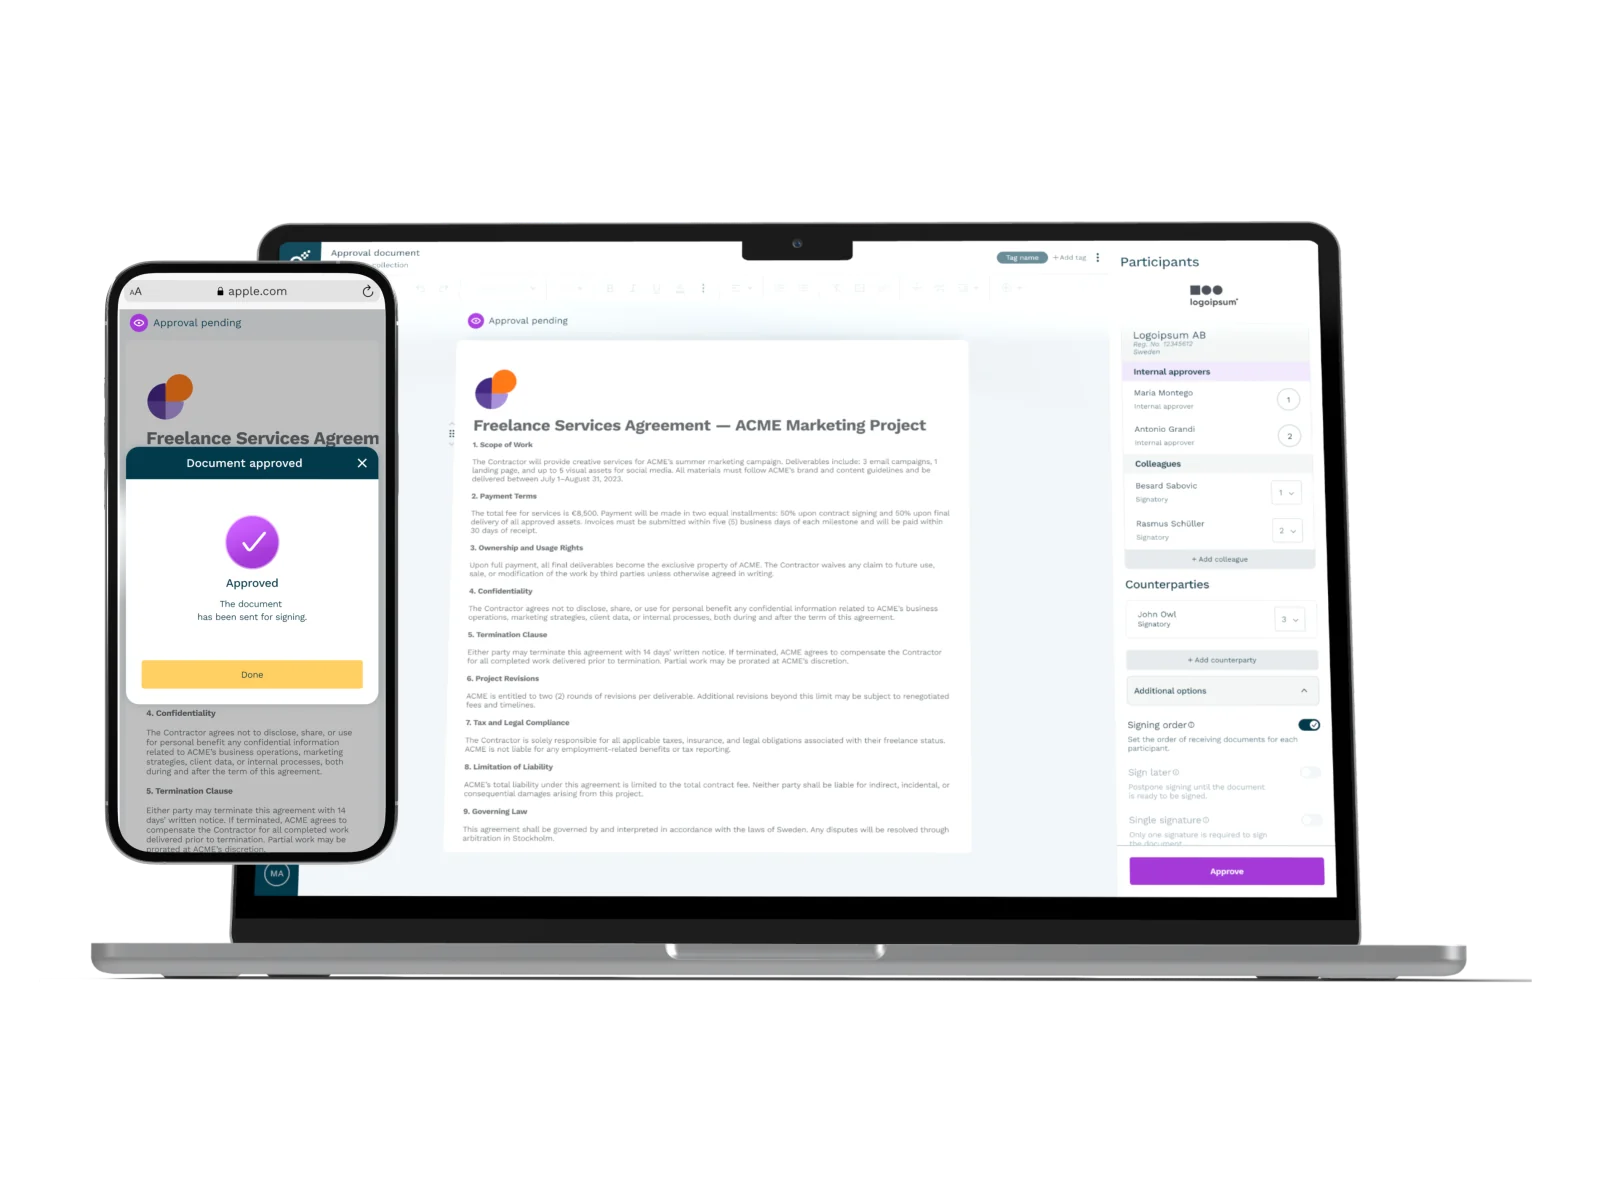
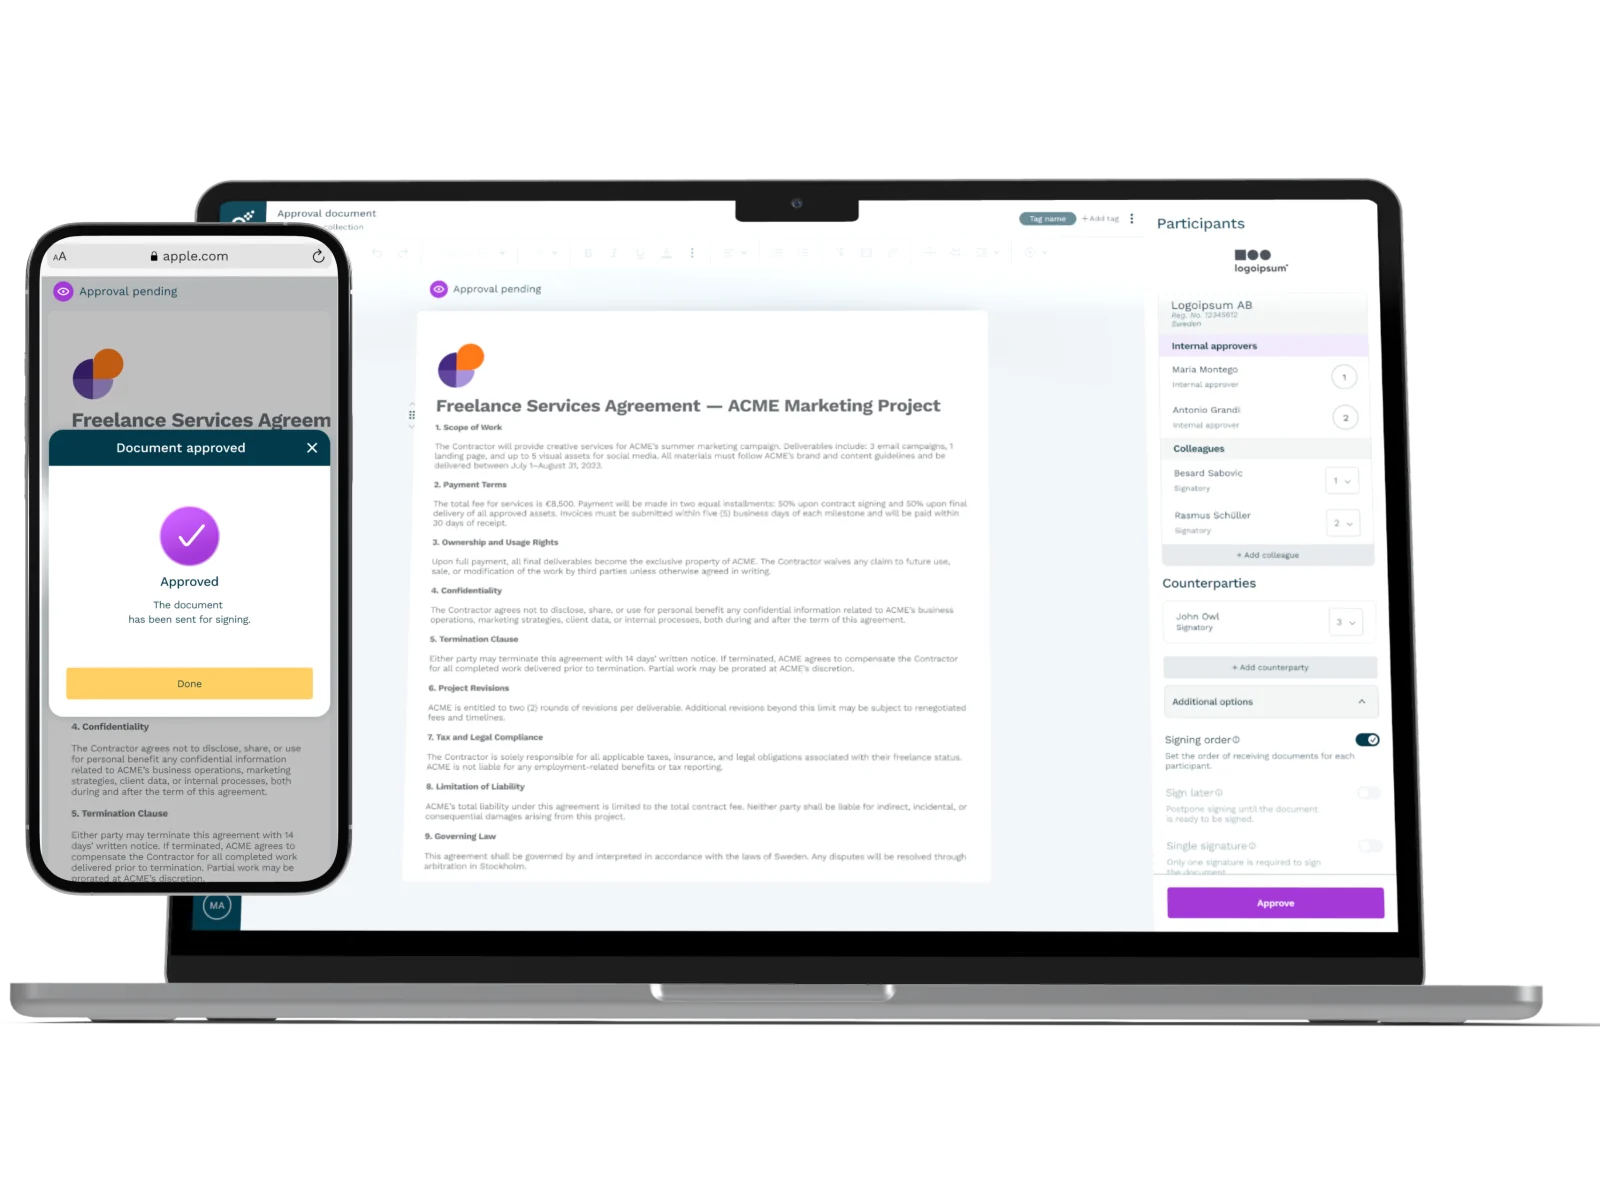
Approvals: tighter devices crop and a larger hero that bleeds past the column

Changed region(s): [[0.0, 0.1233, 1.0, 0.8633]]

diff --git a/case-approval-flows.html b/case-approval-flows.html
@@ -13,7 +13,7 @@
 <link rel="stylesheet" href="https://fonts.googleapis.com/css2?family=Work+Sans:ital,wght@0,400;0,500;1,400&display=block">
 <link rel="stylesheet" href="screens/screens.css?v=51">
 <script>try{var t=localStorage.getItem("theme");if(t==="dark"||t==="light")document.documentElement.setAttribute("data-theme",t)}catch(e){}</script>
-<link rel="stylesheet" href="styles.css?v=50">
+<link rel="stylesheet" href="styles.css?v=51">
 
 <a class="skip-link" href="#main">Skip to content</a>
 
@@ -65,7 +65,7 @@
         <p class="case-lede">Designed approval workflows that made contract lifecycles trackable, compliant, and fast to review.</p>
         <p class="case-shift-line"><span class="from">Approvals over email and Slack</span> <svg class="shift-arrow" width="22" height="12" viewBox="0 0 22 12" fill="none" stroke="currentColor" stroke-width="1.8" stroke-linecap="round" stroke-linejoin="round" aria-hidden="true"><path d="M1 6h19"/><path d="M15.5 1.5 20.5 6l-5 4.5"/></svg><span class="visually-hidden"> became </span> <span class="to">Approvals tracked in the contract</span></p>
       </div>
-      <div class="case-head-visual"><img style="view-transition-name: shot-approvals; view-transition-class: shot" fetchpriority="high" src="images/apr-devices-1600.webp" srcset="images/apr-devices-800.webp 800w, images/apr-devices-1200.webp 1200w, images/apr-devices-1600.webp 1600w, images/apr-devices-2400.webp 2400w, images/apr-devices-3800.webp 3800w" sizes="(max-width: 860px) 92vw, 560px" width="3800" height="2850" alt="Oneflow approval flow on a laptop and a phone: the approver view with signing order, and the Document approved confirmation"></div>
+      <div class="case-head-visual case-head-bleed"><img style="view-transition-name: shot-approvals; view-transition-class: shot" fetchpriority="high" src="images/apr-devices-1600.webp" srcset="images/apr-devices-800.webp 800w, images/apr-devices-1200.webp 1200w, images/apr-devices-1600.webp 1600w, images/apr-devices-2400.webp 2400w, images/apr-devices-3410.webp 3410w" sizes="(max-width: 860px) 92vw, 560px" width="3410" height="2558" alt="Oneflow approval flow on a laptop and a phone: the approver view with signing order, and the Document approved confirmation"></div>
       </div>
     <div class="wrap"><dl class="case-facts"><div><dt>Domain</dt><dd>Contract approval flow</dd></div><div><dt>Timeline</dt><dd>Q3 2023</dd></div><div><dt>Role</dt><dd>Lead designer</dd></div><div><dt>Team</dt><dd><span class="team-stack"><img src="images/avatar-olha.webp" width="128" height="128" alt=""><span class="team-more" aria-hidden="true">+4</span></span><span class="visually-hidden">Olha and 4 others</span></dd></div></dl></div>
     </div>

diff --git a/case-qes.html b/case-qes.html
@@ -13,7 +13,7 @@
 <link rel="stylesheet" href="https://fonts.googleapis.com/css2?family=Work+Sans:ital,wght@0,400;0,500;0,600;1,400&display=block">
 <link rel="stylesheet" href="screens/screens.css?v=51">
 <script>try{var t=localStorage.getItem("theme");if(t==="dark"||t==="light")document.documentElement.setAttribute("data-theme",t)}catch(e){}</script>
-<link rel="stylesheet" href="styles.css?v=50">
+<link rel="stylesheet" href="styles.css?v=51">
 
 <a class="skip-link" href="#main">Skip to content</a>
 
@@ -286,7 +286,7 @@
     <div class="more-grid">
       <a class="more-field" href="case-approval-flows.html">
         <div class="more-copy"><h3>Contract approval flows</h3><p><span class="stat-num">82%</span> early adopter CSAT</p></div>
-        <div class="more-visual"><img style="view-transition-name: shot-approvals; view-transition-class: shot" loading="lazy" src="images/apr-devices-1600.webp" srcset="images/apr-devices-800.webp 800w, images/apr-devices-1200.webp 1200w, images/apr-devices-1600.webp 1600w, images/apr-devices-2400.webp 2400w, images/apr-devices-3800.webp 3800w" sizes="(max-width: 760px) 90vw, 560px" width="3800" height="2850" alt="Oneflow approval flow on a laptop and a phone: the approver view with signing order, and the Document approved confirmation"></div>
+        <div class="more-visual"><img style="view-transition-name: shot-approvals; view-transition-class: shot" loading="lazy" src="images/apr-devices-1600.webp" srcset="images/apr-devices-800.webp 800w, images/apr-devices-1200.webp 1200w, images/apr-devices-1600.webp 1600w, images/apr-devices-2400.webp 2400w, images/apr-devices-3410.webp 3410w" sizes="(max-width: 760px) 90vw, 560px" width="3410" height="2558" alt="Oneflow approval flow on a laptop and a phone: the approver view with signing order, and the Document approved confirmation"></div>
       </a>
       <a class="more-field" href="case-suggestions.html">
         <div class="more-copy"><h3>Real-time contract collaboration</h3><p><span class="stat-num">35%</span> feature adoption</p></div>

diff --git a/case-suggestions.html b/case-suggestions.html
@@ -13,7 +13,7 @@
 <link rel="stylesheet" href="https://fonts.googleapis.com/css2?family=Work+Sans:ital,wght@0,400;0,500;0,600;1,400&display=block">
 <link rel="stylesheet" href="screens/screens.css?v=51">
 <script>try{var t=localStorage.getItem("theme");if(t==="dark"||t==="light")document.documentElement.setAttribute("data-theme",t)}catch(e){}</script>
-<link rel="stylesheet" href="styles.css?v=50">
+<link rel="stylesheet" href="styles.css?v=51">
 
 <a class="skip-link" href="#main">Skip to content</a>
 
@@ -475,7 +475,7 @@
     <div class="more-grid">
       <a class="more-field" href="case-approval-flows.html">
         <div class="more-copy"><h3>Contract approval flows</h3><p><span class="stat-num">82%</span> early adopter CSAT</p></div>
-        <div class="more-visual"><img style="view-transition-name: shot-approvals; view-transition-class: shot" loading="lazy" src="images/apr-devices-1600.webp" srcset="images/apr-devices-800.webp 800w, images/apr-devices-1200.webp 1200w, images/apr-devices-1600.webp 1600w, images/apr-devices-2400.webp 2400w, images/apr-devices-3800.webp 3800w" sizes="(max-width: 760px) 90vw, 560px" width="3800" height="2850" alt="Oneflow approval flow on a laptop and a phone: the approver view with signing order, and the Document approved confirmation"></div>
+        <div class="more-visual"><img style="view-transition-name: shot-approvals; view-transition-class: shot" loading="lazy" src="images/apr-devices-1600.webp" srcset="images/apr-devices-800.webp 800w, images/apr-devices-1200.webp 1200w, images/apr-devices-1600.webp 1600w, images/apr-devices-2400.webp 2400w, images/apr-devices-3410.webp 3410w" sizes="(max-width: 760px) 90vw, 560px" width="3410" height="2558" alt="Oneflow approval flow on a laptop and a phone: the approver view with signing order, and the Document approved confirmation"></div>
       </a>
       <a class="more-field" href="case-qes.html">
         <div class="more-copy"><h3>High-security signing</h3><p><span class="stat-num">96%</span> less setup time</p></div>

diff --git a/index.html b/index.html
@@ -13,7 +13,7 @@
 <link rel="preconnect" href="https://fonts.gstatic.com" crossorigin>
 <link rel="stylesheet" href="https://fonts.googleapis.com/css2?family=Schibsted+Grotesk:ital,wght@0,400..900;1,400..900&display=swap">
 <script>try{var t=localStorage.getItem("theme");if(t==="dark"||t==="light")document.documentElement.setAttribute("data-theme",t)}catch(e){}</script>
-<link rel="stylesheet" href="styles.css?v=50">
+<link rel="stylesheet" href="styles.css?v=51">
 
 <a class="skip-link" href="#main">Skip to content</a>
 
@@ -102,7 +102,7 @@
           <span class="row-go"><span class="row-go-t">Read case study</span><svg width="22" height="22" viewBox="0 0 24 24" fill="none" stroke="currentColor" stroke-width="2" stroke-linecap="round" stroke-linejoin="round" aria-hidden="true"><path d="M5 12h14"/><path d="m13 6 6 6-6 6"/></svg></span>
         </div>
       </div>
-      <div class="row-media"><img style="view-transition-name: shot-approvals; view-transition-class: shot" loading="lazy" src="images/apr-devices-1600.webp" srcset="images/apr-devices-800.webp 800w, images/apr-devices-1200.webp 1200w, images/apr-devices-1600.webp 1600w, images/apr-devices-2400.webp 2400w, images/apr-devices-3800.webp 3800w" sizes="(max-width: 860px) 92vw, 560px" width="3800" height="2850" alt="Oneflow approval flow on a laptop and a phone: the approver view with signing order, and the Document approved confirmation"></div>
+      <div class="row-media"><img style="view-transition-name: shot-approvals; view-transition-class: shot" loading="lazy" src="images/apr-devices-1600.webp" srcset="images/apr-devices-800.webp 800w, images/apr-devices-1200.webp 1200w, images/apr-devices-1600.webp 1600w, images/apr-devices-2400.webp 2400w, images/apr-devices-3410.webp 3410w" sizes="(max-width: 860px) 92vw, 560px" width="3410" height="2558" alt="Oneflow approval flow on a laptop and a phone: the approver view with signing order, and the Document approved confirmation"></div>
     </a>
   </section>
 

diff --git a/styles.css b/styles.css
@@ -2129,3 +2129,9 @@ a.t-tile:hover { background: var(--emph-hover); }
   :root:not([data-theme="light"]) .scr.dsb .ds-hex, :root:not([data-theme="light"]) .scr.dsb .ds-lg { color: var(--ink); }
   :root:not([data-theme="light"]) .scr.dsb .ds-cap { color: var(--ink-faint); border-bottom-color: var(--line); }
 }
+/* Approvals hero: the devices mockup runs larger and bleeds past the column edge */
+@media (min-width: 861px) {
+  .case-head-visual.case-head-bleed { justify-items: start; }
+  .case-head-visual.case-head-bleed img { width: 132%; max-width: none; }
+}
+@media (max-width: 860px) { .case-head-visual.case-head-bleed img { width: 112%; max-width: none; margin-left: -6%; } }

diff --git a/404.html b/404.html
@@ -9,7 +9,7 @@
 <link rel="preconnect" href="https://fonts.gstatic.com" crossorigin>
 <link rel="stylesheet" href="https://fonts.googleapis.com/css2?family=Schibsted+Grotesk:ital,wght@0,400..900;1,400..900&display=swap">
 <script>try{var t=localStorage.getItem("theme");if(t==="dark"||t==="light")document.documentElement.setAttribute("data-theme",t)}catch(e){}</script>
-<link rel="stylesheet" href="https://olia-d.github.io/olha-portfolio/styles.css?v=50">
+<link rel="stylesheet" href="https://olia-d.github.io/olha-portfolio/styles.css?v=51">
 
 <a class="skip-link" href="#main">Skip to content</a>
 

diff --git a/about.html b/about.html
@@ -12,7 +12,7 @@
 <link rel="preconnect" href="https://fonts.gstatic.com" crossorigin>
 <link rel="stylesheet" href="https://fonts.googleapis.com/css2?family=Schibsted+Grotesk:ital,wght@0,400..900;1,400..900&display=swap">
 <script>try{var t=localStorage.getItem("theme");if(t==="dark"||t==="light")document.documentElement.setAttribute("data-theme",t)}catch(e){}</script>
-<link rel="stylesheet" href="styles.css?v=50">
+<link rel="stylesheet" href="styles.css?v=51">
 
 <a class="skip-link" href="#main">Skip to content</a>
 
